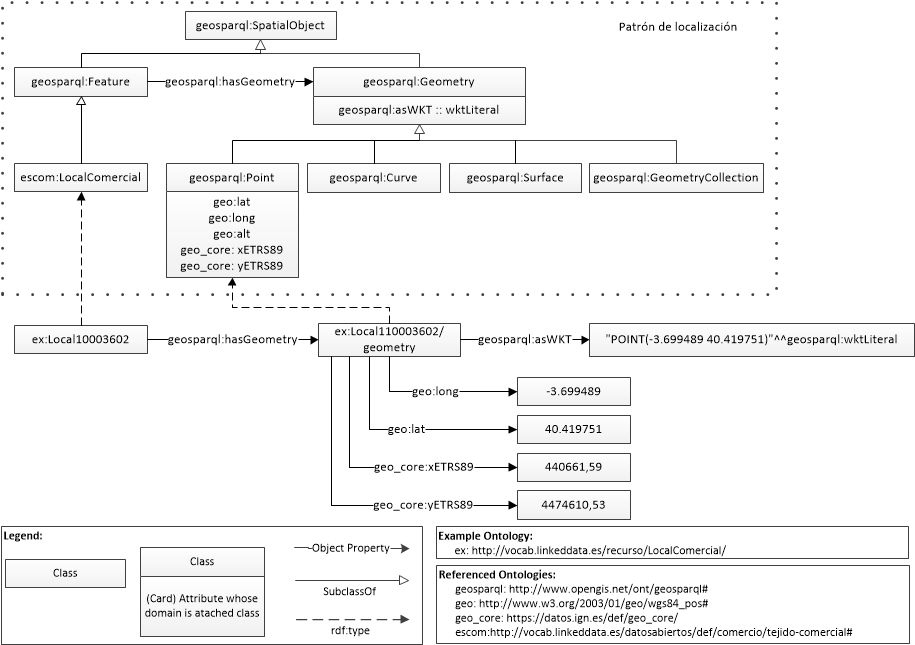
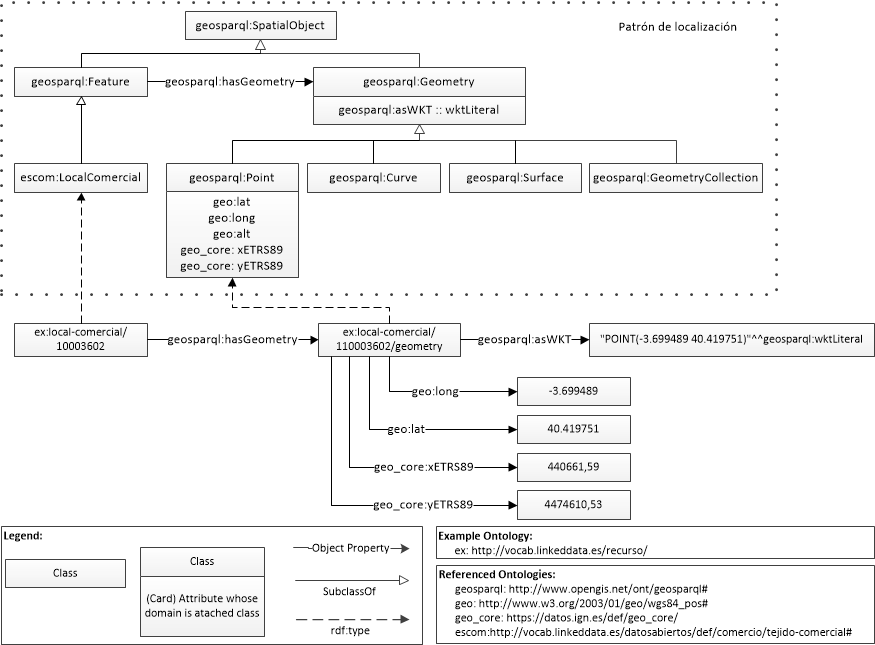
fix typo in examples URI

diff --git a/OnToology/ontology/tejido-comercial.owl/documentation/sections/description-en.html b/OnToology/ontology/tejido-comercial.owl/documentation/sections/description-en.html
@@ -6,7 +6,7 @@ Figure 1 shows the classes and properties of this vocabulary. <br>
 </center>
 <span class="markdown">
   As aforementioned, the scope of this vocabulary is the represntation of data from the census of local business premises and terraces, as wella s their associated economic activities and activity licenses. The vocabulary defines several classes and properties that allow describing such data, especially reusing the classess [schema:Place](http://schema.org/Place) and [schema:LocalBusiness](http://schema.org/LocalBusiness), as well as their associated properties.
-    
+
   Several SKOS concept schemes have been also used to represent some of the classifications used to represent the administrative situation in which a local business may be, the type of accessibility features that it provides, type of shopping area where it is located, etc. Figure 1 shows some of these relationships with SKOS concept schemes. In the case of the type of economic activity, represented by the  [escom:tipoActividadEconomica](#tipoActividadEconomica) property, several possibilities exist to represent such type of economic activity. For instance, it may be represented using the "Impuesto de Actividades Económicas" model [IAE](https://www2.agenciatributaria.gob.es/ADUA/internet/es/aeat/dit/adu/adws/certificados/Tabla_de_epigrafes_IAE.pdf), the [CNAE](https://www.cnae.com.es/lista-actividades.php) or any other ad-hoc representation that a specific municipality may prefer to make use of.
 </span>
 
@@ -14,22 +14,22 @@ Figure 1 shows the classes and properties of this vocabulary. <br>
 <span class="markdown">
   Some examples are provided next with the objective of facilitating the understanding of how the core classes and properties of the vocabulary may be used.
 
-  We will first start with the representation of an opening license for a local business premise. This will be represented as an instance of the class [escom:LicenciaApertura](#LicenciaApertura), which is associated to a local business premise with the property [escom:asociadaA](#asociadaA). The license request date is represented with [escom:fechaSolicitud](#fechaSolicitud) and the processing status is represented by property [escom:estadoTramitacion](#estadoTramitacion), which links the license and the status in which the license is, according to a SKOS codelist that encodes status types. The owner of the license may be a person, group or organisation, which is represented by an instance of the class [foaf:Person](http://xmlns.com/foaf/0.1/Person). Finally, the property [escom:autorizaActividadEconomica](#autorizaActividadEconomica) is used to specify the type of economic activity that the license authorises.  
+  We will first start with the representation of an opening license for a local business premise. This will be represented as an instance of the class [escom:LicenciaApertura](#LicenciaApertura), which is associated to a local business premise with the property [escom:asociadaA](#asociadaA). The license request date is represented with [escom:fechaSolicitud](#fechaSolicitud) and the processing status is represented by property [escom:estadoTramitacion](#estadoTramitacion), which links the license and the status in which the license is, according to a SKOS codelist that encodes status types. The owner of the license may be a person, group or organisation, which is represented by an instance of the class [foaf:Person](http://xmlns.com/foaf/0.1/Person). Finally, the property [escom:autorizaActividadEconomica](#autorizaActividadEconomica) is used to specify the type of economic activity that the license authorises.
 </span>
 <pre>
-  &lt;http://vocab.linkeddata.es/recurso/Licencia/500-2017-11358&gt; a escom:LicenciaApertura ;
-  escom:asociadaA &lt;http://vocab.linkeddata.es/recurso/LocalComercial/10003602&gt; ;
+  &lt;http://vocab.linkeddata.es/recurso/licencia/500-2017-11358&gt; a escom:LicenciaApertura ;
+  escom:asociadaA &lt;http://vocab.linkeddata.es/recurso/local-comercial/10003602&gt; ;
   escom:fechaSolicitud "2017/09/18"^^xsd:dateTime ;
   escom:estadoTramitacion &lt;http://vocab.linkeddata.es/datosabiertos/kos/comercio/tipo-estado-tramite-licencia/en-tramite&gt; ;
-  escom:seOtorgaA &lt;http://vocab.linkeddata.es/recurso/Persona/Y4214587&gt; ;
+  escom:seOtorgaA &lt;http://vocab.linkeddata.es/recurso/persona/Y4214587&gt; ;
   escom:autorizaActividadEconomica &lt;http://vocab.linkeddata.es/datosabiertos/kos/comercio/cnae/Cod4/5610&gt; .
 </pre>
 <span class="markdown">
   Next, we represent the local business premise associted with the previously defined license. The example shows an instance of the class [escom:LocalComercial](#LocalComercial) that is associated to its corresponding opening license with property [escom:tieneLicenciaApertura](#tieneLicenciaApertura). The identifier, commercial sign, capacity, cadastral reference and telephoe are represented by the following data properties, respectively [dc:identifier](http://purl.org/dc/elements/1.1/identifier), [escom:rotulo](#rotulo), [escom:aforo](#aforo), [escom:referenciaCatastral](#referenciaCatastral) and [schema:telephone](http://schema.org/telephone). Several properties are represented using SKOS concepts, such as the operating status [escom:tipoSituacion](#tipoSituacion). Finally, the geospatial location of the premise is described with property [geosparql:hasGeometry](http://www.opengis.net/ont/geosparql#hasGeometry), from the aforementioned geospatial location pattern.
 </span>
 <pre>
-  &lt;http://vocab.linkeddata.es/recurso/LocalComercial/10003602&gt; a escom:LocalComercial ;
-  escom:tieneLicenciaApertura &lt;http://vocab.linkeddata.es/recurso/Licencia/500-2017-11358&gt; ;
+  &lt;http://vocab.linkeddata.es/recurso/local-comercial/10003602&gt; a escom:LocalComercial ;
+  escom:tieneLicenciaApertura &lt;http://vocab.linkeddata.es/recurso/licencia/500-2017-11358&gt; ;
   dc:identifier "10003602" ;
   escom:rotulo  "Restaurante Cocina del Norte" ;
   escom:aforo	"30"^^xsd:int ;
@@ -37,9 +37,9 @@ Figure 1 shows the classes and properties of this vocabulary. <br>
   schema:telephone "640439521" ;
   escom:tipoSituacion &lt;http://vocab.linkeddata.es/datosabiertos/kos/comercio/tipo-situacion/activo&gt; ;
   escom:tipoActividadEconomica &lt;http://vocab.linkeddata.es/datosabiertos/kos/comercio/cnae/Cod4/5610&gt; ;
-  escom:tieneTerraza &lt;http://vocab.linkeddata.es/recurso/Terraza/10003602&gt; ;
+  escom:tieneTerraza &lt;http://vocab.linkeddata.es/recurso/terraza/10003602&gt; ;
   escom:tipoAcceso &lt;http://vocab.linkeddata.es/datosabiertos/kos/comercio/tipo-acceso/puerta-calle&gt; ;
-  geosparql:hasGeometry	&lt;http://vocab.linkeddata.es/recurso/LocalComercial/10003602/geometry&gt; .
+  geosparql:hasGeometry	&lt;http://vocab.linkeddata.es/recurso/local-comercial/10003602/geometry&gt; .
 </pre>
 <span class="markdown">
   The geospatial location of a premise is defined as an instance of [sf:Point](http://www.opengis.net/ont/sf#Point), which is one of the classes defined in the GeoSPARQL ontology. We also use the [geosparql:asWKT](http://www.opengis.net/ont/geosparql#asWKT) property to represent the WKT geometric representation of the point, which is of type [geosparql:wktLiteral](http://www.opengis.net/ont/geosparql#wktLiteral). Graphically, this representation is shown in Figure 2.
@@ -48,7 +48,7 @@ Figure 1 shows the classes and properties of this vocabulary. <br>
 </center>
 The corresponding RDF code for Figure 2 is:
 <pre class="example highlight preprint">
-  &lt;http://vocab.linkeddata.es/recurso/LocalComercial/10003602/geometry&gt; a sf:Point ;
+  &lt;http://vocab.linkeddata.es/recurso/local-comercial/10003602/geometry&gt; a sf:Point ;
   geosparql:asWKT  "POINT (-3.699489 40.419751)"^^geosparql:wktLiteral ;
   geo:long "-3.699489" ;
   geo:lat "40.419751" ;
@@ -60,12 +60,12 @@ The corresponding RDF code for Figure 2 is:
   If the census of local business premises contains references to the district, neighbourhood or census tract that a premise belongs to, or in case that the data provider or any reuser wants to calculate it and represent it explicitly, the following classes and properties from the [territorio](http://vocab.linkeddata.es/datosabiertos/def/sector-publico/territorio) vocabulary can be used: [esadm:distrito](http://vocab.linkeddata.es/datosabiertos/def/sector-publico/territorio#distrito), [esadm:barrio](http://vocab.linkeddata.es/datosabiertos/def/sector-publico/territorio#barrio) and [esadm:seccionCensal](http://vocab.linkeddata.es/datosabiertos/def/sector-publico/territorio#seccionCensal). Let's see an example:
 </span>
 <pre class="example highlight preprint">
-  &lt;http://vocab.linkeddata.es/recurso/LocalComercial/10003602&gt; a escom:LocalComercial ;
-  esadm:distrito &lt;http://vocab.linkeddata.es/recurso/Distrito/20&gt; .
+  &lt;http://vocab.linkeddata.es/recurso/local-comercial/10003602&gt; a escom:LocalComercial ;
+  esadm:distrito &lt;http://vocab.linkeddata.es/recurso/distrito/20&gt; .
 </pre>
   The representation of a specific district may be represented as follows (see the [territorio](http://vocab.linkeddata.es/datosabiertos/def/sector-publico/territorio) vocabulary documentation for more details):
 <pre>
-  &lt;http://vocab.linkeddata.es/recurso/Distrito/20&gt; a esadm:Distrito ;
+  &lt;http://vocab.linkeddata.es/recurso/distrito/20&gt; a esadm:Distrito ;
   dcterms:identifier     "20" ;
   geonames:officialName  "San Blas - Canillejas" ;
   rdfs:label             "San Blas - Canillejas" .
@@ -74,35 +74,35 @@ The corresponding RDF code for Figure 2 is:
   A terrace is represented as an instance of the class [Terraza](#Terraza). Its operational period is represented with the property [escom:periodoFuncionamiento](#periodoFuncionamiento), that relates it with the corresponding SKOS concept. The opening hours of the terrace is represented with the [schema:openingHours](http://schema.org/openingHours) property, acccording to the specification provided by schema.org. Other properties like area, or number of chairs and tables, are described with properties [escom:superficie](#superficie), [escom:numeroSillasAutorizadas](#numeroSillasAutorizadas), and [escom:numeroMesasAutorizadas](#numeroMesasAutorizadas) respectively. Finally, the local business premise to which the terrace belongs to is specified with property [escom:perteneceALocal](#perteneceALocal).
 </span>
 <pre>
-  &lt;http://vocab.linkeddata.es/recurso/Terraza/10003602&gt; a escom:Terraza ;
+  &lt;http://vocab.linkeddata.es/recurso/terraza/10003602&gt; a escom:Terraza ;
   escom:periodoFuncionamiento &lt;http://vocab.linkeddata.es/datosabiertos/kos/comercio/periodo-funcionamiento/estacional&gt; ;
   schema:openingHours "Lun-Vie 08:00-13:30" ;
   escom:superficie "10"^^xsd:float ;
   escom:numeroMesasAutorizadas "5"^^xsd:int ;
   escom:numeroSillasAutorizadas "10"^^xsd:int ;
-  escom:perteneceALocal  &lt;http://vocab.linkeddata.es/recurso/LocalComercial/10003602&gt; .
+  escom:perteneceALocal  &lt;http://vocab.linkeddata.es/recurso/local-comercial/10003602&gt; .
 </pre>
 <span class="markdown">
- A specific shopping area is represented as an instance of the class [escom:AgrupacionComercial](#AgrupacionComercial). The name of the shopping area is generated with property [dc:title](http://purl.org/dc/elements/1.1/title), the type of shopping area with  [escom:tipoAgrupacionComercial](#tipoAgrupacionComercial), and finally the property [escom:contieneLocalComercial](#contieneLocalComercial) relates the shopping area with the local business premise.
+ A specific shopping area is represented as an instance of the class [escom:AgrupacionComercial](#AgrupacionComercial). The name of the shopping area is generated with property [schema:name](http://schema.org/name), the type of shopping area with  [escom:tipoAgrupacionComercial](#tipoAgrupacionComercial), and finally the property [escom:contieneLocalComercial](#contieneLocalComercial) relates the shopping area with the local business premise.
 </span>
 <pre>
-  &lt;http://vocab.linkeddata.es/recurso/AgrupacionComercial/99000004&gt; a escom:AgrupacionComercial ;
-  dc:title "GALERIA DE ALIMENTACION JUAN DUQUE 37" ;
+  &lt;http://vocab.linkeddata.es/recurso/agrupacion-comercial/99000004&gt; a escom:AgrupacionComercial ;
+  schema:name "GALERIA DE ALIMENTACION JUAN DUQUE 37" ;
   escom:tipoAgrupacionComercial &lt;http://vocab.linkeddata.es/datosabiertos/kos/comercio/tipo-agrupacion/galeria-alimentacion&gt; ;
-  escom:contieneLocalComercial &lt;http://vocab.linkeddata.es/recurso/LocalComercial/10003602&gt; .
+  escom:contieneLocalComercial &lt;http://vocab.linkeddata.es/recurso/local-comercial/10003602&gt; .
   </pre>
 <span class="markdown">
   Finally, we provide an example with a special opening hour specification for a local business premise, for the Christmas period:
 </span>
 <pre>
-  &lt;http://vocab.linkeddata.es/recurso/LocalComercial/10003602&gt; a escom:LocalComercial ;
-  schema:specialOpeningHoursSpecification &lt;http://vocab.linkeddata.es/recurso/LocalComercial/horarioEspecial/2018-12-24&gt .
+  &lt;http://vocab.linkeddata.es/recurso/local-comercial/10003602&gt; a escom:LocalComercial ;
+  schema:specialOpeningHoursSpecification &lt;http://vocab.linkeddata.es/recurso/local-comercial/10003602/horario-especial-2018-12-24&gt .
 </pre>
 <span class="markdown">
-  As shown in the code, we have used the property [schema:specialOpeningHoursSpecification](http://schema.org/specialOpeningHoursSpecification) to relate the local business premise with an instance of the class [schema:OpeningHoursSpecification](http://schema.org/OpeningHoursSpecification), which is used to represent the opening hours. 
+  As shown in the code, we have used the property [schema:specialOpeningHoursSpecification](http://schema.org/specialOpeningHoursSpecification) to relate the local business premise with an instance of the class [schema:OpeningHoursSpecification](http://schema.org/OpeningHoursSpecification), which is used to represent the opening hours.
 </span>
 <pre>
-  &lt;http://vocab.linkeddata.es/recurso/LocalComercial/horarioEspecial/2018-12-24&gt a schema:OpeningHoursSpecification ;
+  &lt;http://vocab.linkeddata.es/recurso/local-comercial/10003602/horario-especial-2018-12-24&gt a schema:OpeningHoursSpecification ;
   schema:validFrom: "2018-12-24" ;
   schema:validThrough: "2018-12-25" ;
   schema:opens: "09:00" ;

diff --git a/OnToology/ontology/tejido-comercial.owl/documentation/sections/description-es.html b/OnToology/ontology/tejido-comercial.owl/documentation/sections/description-es.html
@@ -14,22 +14,22 @@ La Figura 1 muestra las clases y propiedades del Vocabulario de censo de locales
 <span class="markdown">
   Con la finalidad de facilitar la comprensión del uso de algunas clases y propiedades de este vocabulario se proporcionarán a continuación algunos ejemplos.
 
-  En primer lugar para la representación de una licencia se crea una instancia de la clase [escom:LicenciaApertura](#LicenciaApertura) y se asocia a un local mediante la propiedad [escom:asociadaA](#asociadaA). A continuación, la fecha de la solicitud se representa con [escom:fechaSolicitud](#fechaSolicitud) y el estado en el que se encuentra se representa mediante la propiedad [escom:estadoTramitacion](#estadoTramitacion) que enlaza la licencia y el estado en el que se encuentra, conforme un esquema de conceptos de tipos de estado, que para el caso de este ejemplo es en trámite. El titular al que se le otorga la licencia puede ser una persona, grupo u organización, en este caso se representa mediante una instancia de la clase [foaf:Person](http://xmlns.com/foaf/0.1/Person). Finalmente, la propiedad [escom:autorizaActividadEconomica](#autorizaActividadEconomica) se emplea para especificar la actividad que autoriza la licencia.  
+  En primer lugar para la representación de una licencia se crea una instancia de la clase [escom:LicenciaApertura](#LicenciaApertura) y se asocia a un local mediante la propiedad [escom:asociadaA](#asociadaA). A continuación, la fecha de la solicitud se representa con [escom:fechaSolicitud](#fechaSolicitud) y el estado en el que se encuentra se representa mediante la propiedad [escom:estadoTramitacion](#estadoTramitacion) que enlaza la licencia y el estado en el que se encuentra, conforme un esquema de conceptos de tipos de estado, que para el caso de este ejemplo es en trámite. El titular al que se le otorga la licencia puede ser una persona, grupo u organización, en este caso se representa mediante una instancia de la clase [foaf:Person](http://xmlns.com/foaf/0.1/Person). Finalmente, la propiedad [escom:autorizaActividadEconomica](#autorizaActividadEconomica) se emplea para especificar la actividad que autoriza la licencia.
 </span>
 <pre>
-  &lt;http://vocab.linkeddata.es/recurso/Licencia/500-2017-11358&gt; a escom:LicenciaApertura ;
-  escom:asociadaA &lt;http://vocab.linkeddata.es/recurso/LocalComercial/10003602&gt; ;
+  &lt;http://vocab.linkeddata.es/recurso/licencia/500-2017-11358&gt; a escom:LicenciaApertura ;
+  escom:asociadaA &lt;http://vocab.linkeddata.es/recurso/local-comercial/10003602&gt; ;
   escom:fechaSolicitud "2017/09/18"^^xsd:dateTime ;
   escom:estadoTramitacion &lt;http://vocab.linkeddata.es/datosabiertos/kos/comercio/tipo-estado-tramite-licencia/en-tramite&gt; ;
-  escom:seOtorgaA &lt;http://vocab.linkeddata.es/recurso/Persona/Y4214587&gt; ;
+  escom:seOtorgaA &lt;http://vocab.linkeddata.es/recurso/persona/Y4214587&gt; ;
   escom:autorizaActividadEconomica &lt;http://vocab.linkeddata.es/datosabiertos/kos/comercio/cnae/Cod4/5610&gt; .
 </pre>
 <span class="markdown">
   A continuación, se representa el local comercial asociado con la licencia que definida previamente. Como se puede observar en el código de ejemplo, se crea una instancia de la clase [escom:LocalComercial](#LocalComercial) y se enlaza a la licencia con la propiedad [escom:tieneLicenciaApertura](#tieneLicenciaApertura). Su código de identificación, el rótulo del local, el aforo, la referencia catastral y el teléfono se representan a través de las propiedades de datos [dc:identifier](http://purl.org/dc/elements/1.1/identifier), [escom:rotulo](#rotulo), [escom:aforo](#aforo), [escom:referenciaCatastral](#referenciaCatastral) y [schema:telephone](http://schema.org/telephone) respectivamente. Varias propiedades se representan mediante conceptos que se han definido en varios esquemas de conceptos, como el caso de la propiedad [escom:tipoSituacion](#tipoSituacion) que se enlaza con el concepto activo de la lista de conceptos de tipos de situacion de los locales. Finalmente, la localización del local se representa mediante la propiedad [geosparql:hasGeometry](http://www.opengis.net/ont/geosparql#hasGeometry) que se reutiliza de la representación del patrón de localización.
 </span>
 <pre>
-  &lt;http://vocab.linkeddata.es/recurso/LocalComercial/10003602&gt; a escom:LocalComercial ;
-  escom:tieneLicenciaApertura &lt;http://vocab.linkeddata.es/recurso/Licencia/500-2017-11358&gt; ;
+  &lt;http://vocab.linkeddata.es/recurso/local-comercial/10003602&gt; a escom:LocalComercial ;
+  escom:tieneLicenciaApertura &lt;http://vocab.linkeddata.es/recurso/licencia/500-2017-11358&gt; ;
   dc:identifier "10003602" ;
   escom:rotulo  "Restaurante Cocina del Norte" ;
   escom:aforo	"30"^^xsd:int ;
@@ -37,9 +37,9 @@ La Figura 1 muestra las clases y propiedades del Vocabulario de censo de locales
   schema:telephone "640439521" ;
   escom:tipoSituacion &lt;http://vocab.linkeddata.es/datosabiertos/kos/comercio/tipo-situacion/activo&gt; ;
   escom:tipoActividadEconomica &lt;http://vocab.linkeddata.es/datosabiertos/kos/comercio/cnae/Cod4/5610&gt; ;
-  escom:tieneTerraza &lt;http://vocab.linkeddata.es/recurso/Terraza/10003602&gt; ;
+  escom:tieneTerraza &lt;http://vocab.linkeddata.es/recurso/terraza/10003602&gt; ;
   escom:tipoAcceso &lt;http://vocab.linkeddata.es/datosabiertos/kos/comercio/tipo-acceso/puerta-calle&gt; ;
-  geosparql:hasGeometry	&lt;http://vocab.linkeddata.es/recurso/LocalComercial/10003602/geometry&gt; .
+  geosparql:hasGeometry	&lt;http://vocab.linkeddata.es/recurso/local-comercial/10003602/geometry&gt; .
 </pre>
 <span class="markdown">
   Para la representación de la geometría del local se crea una instancia de [sf:Point](http://www.opengis.net/ont/sf#Point) que es una de las clases definidas dentro de la ontología GeoSPARQL. Adicionalmente se emplea la propiedad [geosparql:asWKT](http://www.opengis.net/ont/geosparql#asWKT) para representar el tipo de codificación del punto de ubicación; finalmente el tipo de dato del valor de la geometría se representa mediante la propiedad [geosparql:wktLiteral](http://www.opengis.net/ont/geosparql#wktLiteral). Gráficamente su representación se muestra en la Figura 2.
@@ -48,7 +48,7 @@ La Figura 1 muestra las clases y propiedades del Vocabulario de censo de locales
 </center>
 El código la representación del ejemplo de la Figura 2 sería:
 <pre class="example highlight preprint">
-  &lt;http://vocab.linkeddata.es/recurso/LocalComercial/10003602/geometry&gt; a sf:Point ;
+  &lt;http://vocab.linkeddata.es/recurso/local-comercial/10003602/geometry&gt; a sf:Point ;
   geosparql:asWKT  "POINT (-3.699489 40.419751)"^^geosparql:wktLiteral ;
   geo:long "-3.699489" ;
   geo:lat "40.419751" ;
@@ -60,12 +60,12 @@ El código la representación del ejemplo de la Figura 2 sería:
   En el caso de que en el censo se cuente con los datos de a qué distrito, barrio o sección censal pertenece cierto local se pueden representar mediante las clases y propiedades que se encuentran definidas en el vocabulario de [territorio](http://vocab.linkeddata.es/datosabiertos/def/sector-publico/territorio), específicamente con las propiedades [esadm:distrito](http://vocab.linkeddata.es/datosabiertos/def/sector-publico/territorio#distrito), [esadm:barrio](http://vocab.linkeddata.es/datosabiertos/def/sector-publico/territorio#barrio) y [esadm:seccionCensal](http://vocab.linkeddata.es/datosabiertos/def/sector-publico/territorio#seccionCensal). Por ejemplo para especificar que el local comercial se encuentra ubicado en determinado distrito, tendríamos el código que se muestra a continuación:
 </span>
 <pre class="example highlight preprint">
-  &lt;http://vocab.linkeddata.es/recurso/LocalComercial/10003602&gt; a escom:LocalComercial ;
-  esadm:distrito &lt;http://vocab.linkeddata.es/recurso/Distrito/20&gt; .
+  &lt;http://vocab.linkeddata.es/recurso/local-comercial/10003602&gt; a escom:LocalComercial ;
+  esadm:distrito &lt;http://vocab.linkeddata.es/recurso/distrito/20&gt; .
 </pre>
   La representación de la instancia del distrito que se ha mostrado en este ejemplo se podría representar de forma abreviada así:
 <pre>
-  &lt;http://vocab.linkeddata.es/recurso/Distrito/20&gt; a esadm:Distrito ;
+  &lt;http://vocab.linkeddata.es/recurso/distrito/20&gt; a esadm:Distrito ;
   dcterms:identifier     "20" ;
   geonames:officialName  "San Blas - Canillejas" ;
   rdfs:label             "San Blas - Canillejas" .
@@ -74,35 +74,35 @@ El código la representación del ejemplo de la Figura 2 sería:
   Posteriormente, para el caso de la representación de la terraza, que se mencionó previamente en el código de ejemplo del local, se crea una instancia de la clase [Terraza](#Terraza). Para representar que su periodo de funcionamiento es estacional se emplea la propiedad [escom:periodoFuncionamiento](#periodoFuncionamiento), que enlaza la terraza con el correspondiente concepto SKOS del esquema de tipos de períodos de funcionamiento.	Su horario de funcionamiento se representa con la propiedad [schema:openingHours](http://schema.org/openingHours) de acuerdo con la especificación definida en el vocabulario schema.org. Adicionalmente, la superficie, y el número de sillas y mesas se describen con las propiedades [escom:superficie](#superficie), [escom:numeroSillasAutorizadas](#numeroSillasAutorizadas), y [escom:numeroMesasAutorizadas](#numeroMesasAutorizadas) respectivamente. Finalmente, se especifica el local al que pertenece mediante la propiedad [escom:perteneceALocal](#perteneceALocal).
 </span>
 <pre>
-  &lt;http://vocab.linkeddata.es/recurso/Terraza/10003602&gt; a escom:Terraza ;
+  &lt;http://vocab.linkeddata.es/recurso/terraza/10003602&gt; a escom:Terraza ;
   escom:periodoFuncionamiento &lt;http://vocab.linkeddata.es/datosabiertos/kos/comercio/periodo-funcionamiento/estacional&gt; ;
   schema:openingHours "Lun-Vie 08:00-13:30" ;
   escom:superficie "10"^^xsd:float ;
   escom:numeroMesasAutorizadas "5"^^xsd:int ;
   escom:numeroSillasAutorizadas "10"^^xsd:int ;
-  escom:perteneceALocal  &lt;http://vocab.linkeddata.es/recurso/LocalComercial/10003602&gt; .
+  escom:perteneceALocal  &lt;http://vocab.linkeddata.es/recurso/local-comercial/10003602&gt; .
 </pre>
 <span class="markdown">
- Así también, para la representación de una agrupación comercial se crea una instancia de [escom:AgrupacionComercial](#AgrupacionComercial). Luego, se especifica el nombre de la agrupación con la propiedad [dc:title](http://purl.org/dc/elements/1.1/title), el tipo de agrupación mediante [escom:tipoAgrupacionComercial](#tipoAgrupacionComercial), y finalmente con [escom:contieneLocalComercial](#contieneLocalComercial) se la relaciona con el local comercial que contiene.
+ Así también, para la representación de una agrupación comercial se crea una instancia de [escom:AgrupacionComercial](#AgrupacionComercial). Luego, se especifica el nombre de la agrupación con la propiedad [schema:name](http://schema.org/name), el tipo de agrupación mediante [escom:tipoAgrupacionComercial](#tipoAgrupacionComercial), y finalmente con [escom:contieneLocalComercial](#contieneLocalComercial) se la relaciona con el local comercial que contiene.
 </span>
 <pre>
-  &lt;http://vocab.linkeddata.es/recurso/AgrupacionComercial/99000004&gt; a escom:AgrupacionComercial ;
-  dc:title "GALERIA DE ALIMENTACION JUAN DUQUE 37" ;
+  &lt;http://vocab.linkeddata.es/recurso/agrupacion-comercial/99000004&gt; a escom:AgrupacionComercial ;
+  schema:name "GALERIA DE ALIMENTACION JUAN DUQUE 37" ;
   escom:tipoAgrupacionComercial &lt;http://vocab.linkeddata.es/datosabiertos/kos/comercio/tipo-agrupacion/galeria-alimentacion&gt; ;
-  escom:contieneLocalComercial &lt;http://vocab.linkeddata.es/recurso/LocalComercial/10003602&gt; .
+  escom:contieneLocalComercial &lt;http://vocab.linkeddata.es/recurso/local-comercial/10003602&gt; .
   </pre>
 <span class="markdown">
   Para finalizar con los ejemplos, se representa el caso en el que se tenga que especificar un horario de funcionamiento especial de cierto local comercial. En este caso se mostrará cómo se decribe el horario de Navidad:
 </span>
 <pre>
-  &lt;http://vocab.linkeddata.es/recurso/LocalComercial/10003602&gt; a escom:LocalComercial ;
-  schema:specialOpeningHoursSpecification &lt;http://vocab.linkeddata.es/recurso/LocalComercial/horarioEspecial/2018-12-24&gt .
+  &lt;http://vocab.linkeddata.es/recurso/local-comercial/10003602&gt; a escom:LocalComercial ;
+  schema:specialOpeningHoursSpecification &lt;http://vocab.linkeddata.es/recurso/local-comercial/10003602/horario-especial-2018-12-24&gt .
 </pre>
 <span class="markdown">
   Como se puede observar en el código, se ha empleado la propiedad [schema:specialOpeningHoursSpecification](http://schema.org/specialOpeningHoursSpecification) para enlazar el local con una instancia de la clase [schema:OpeningHoursSpecification](http://schema.org/OpeningHoursSpecification) en la que se representa el horario. Esta instancia del horario especial en navidad se representaría de la siguiente manera:
 </span>
 <pre>
-  &lt;http://vocab.linkeddata.es/recurso/LocalComercial/horarioEspecial/2018-12-24&gt a schema:OpeningHoursSpecification ;
+  &lt;http://vocab.linkeddata.es/recurso/local-comercial/10003602/horario-especial-2018-12-24&gt a schema:OpeningHoursSpecification ;
   schema:validFrom: "2018-12-24" ;
   schema:validThrough: "2018-12-25" ;
   schema:opens: "09:00" ;
